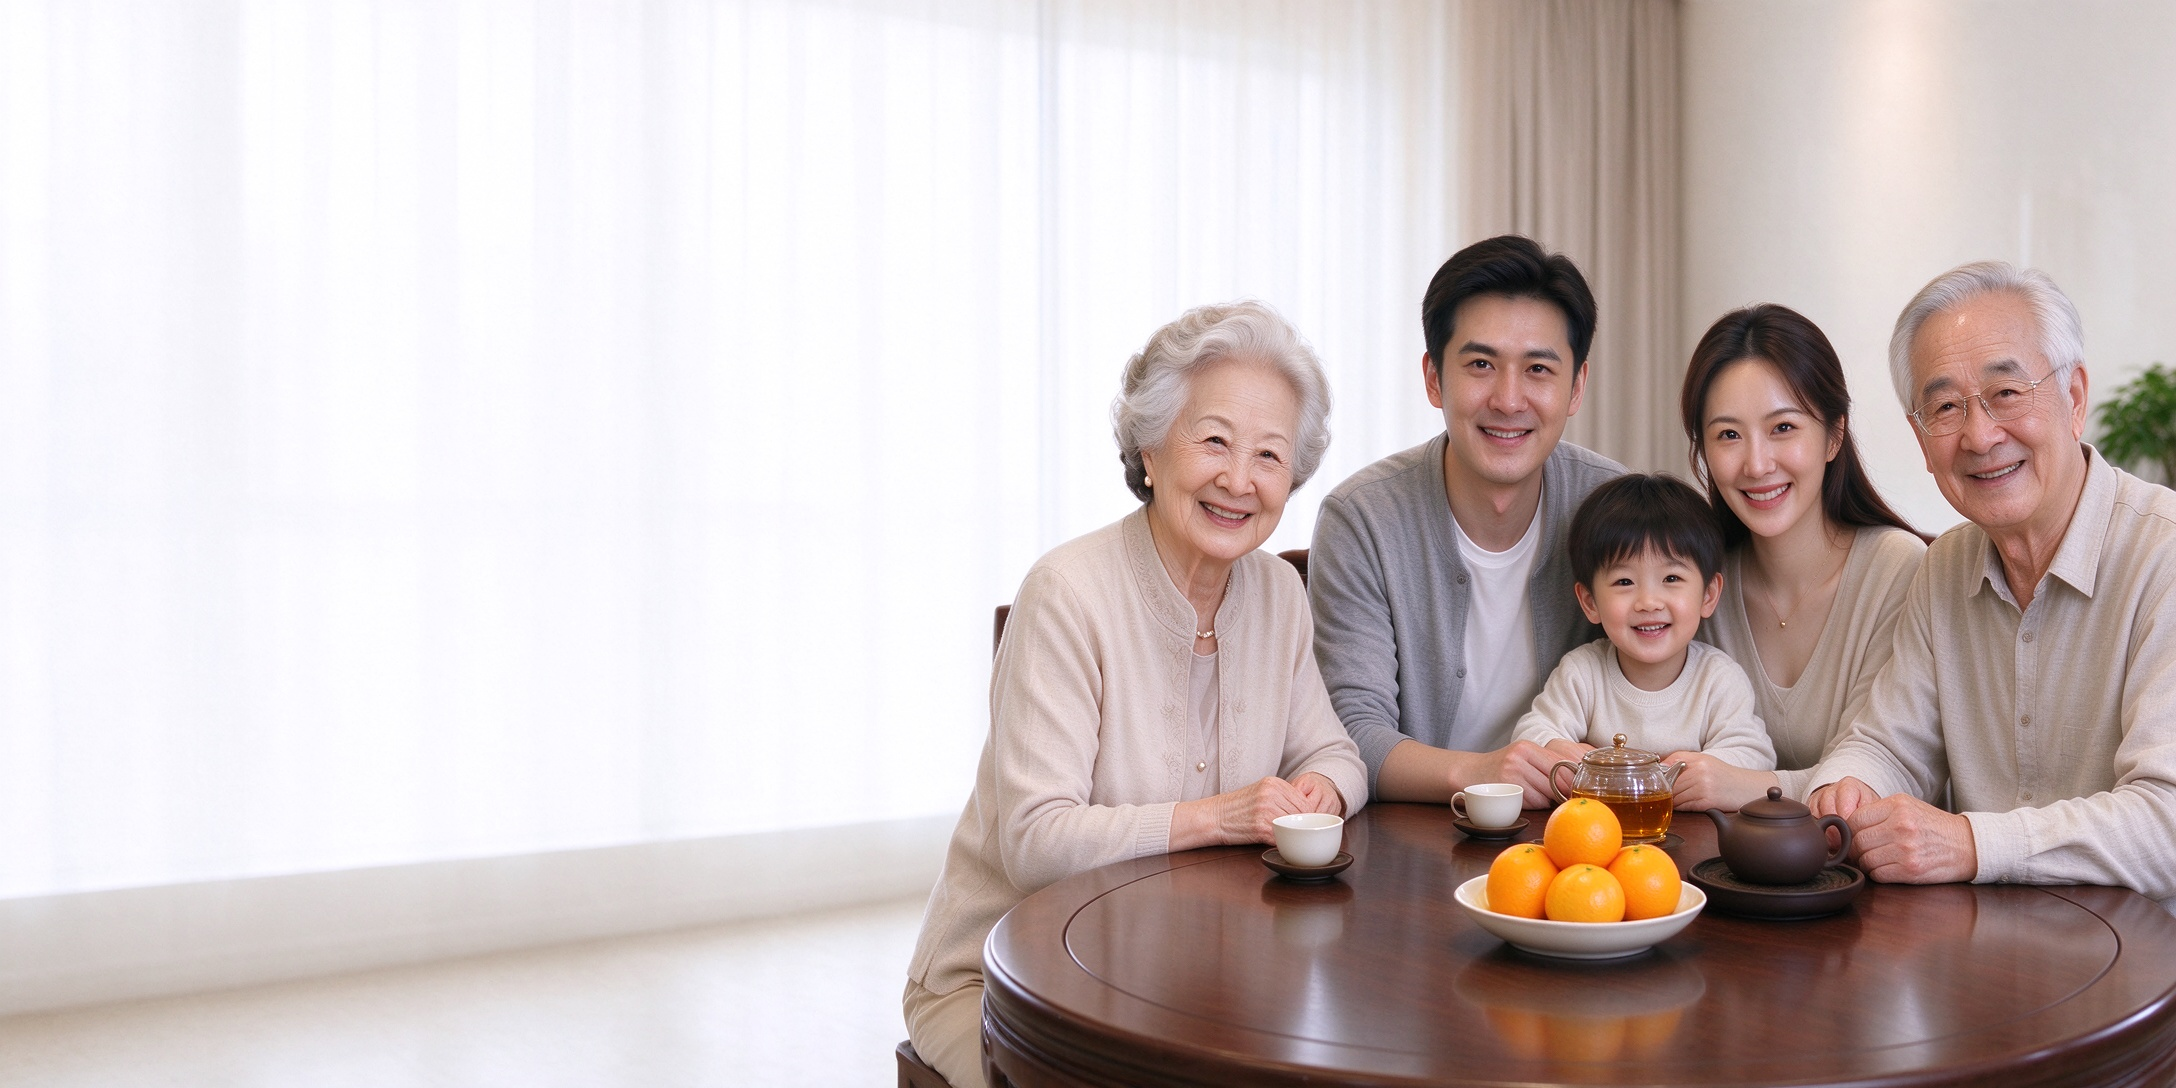
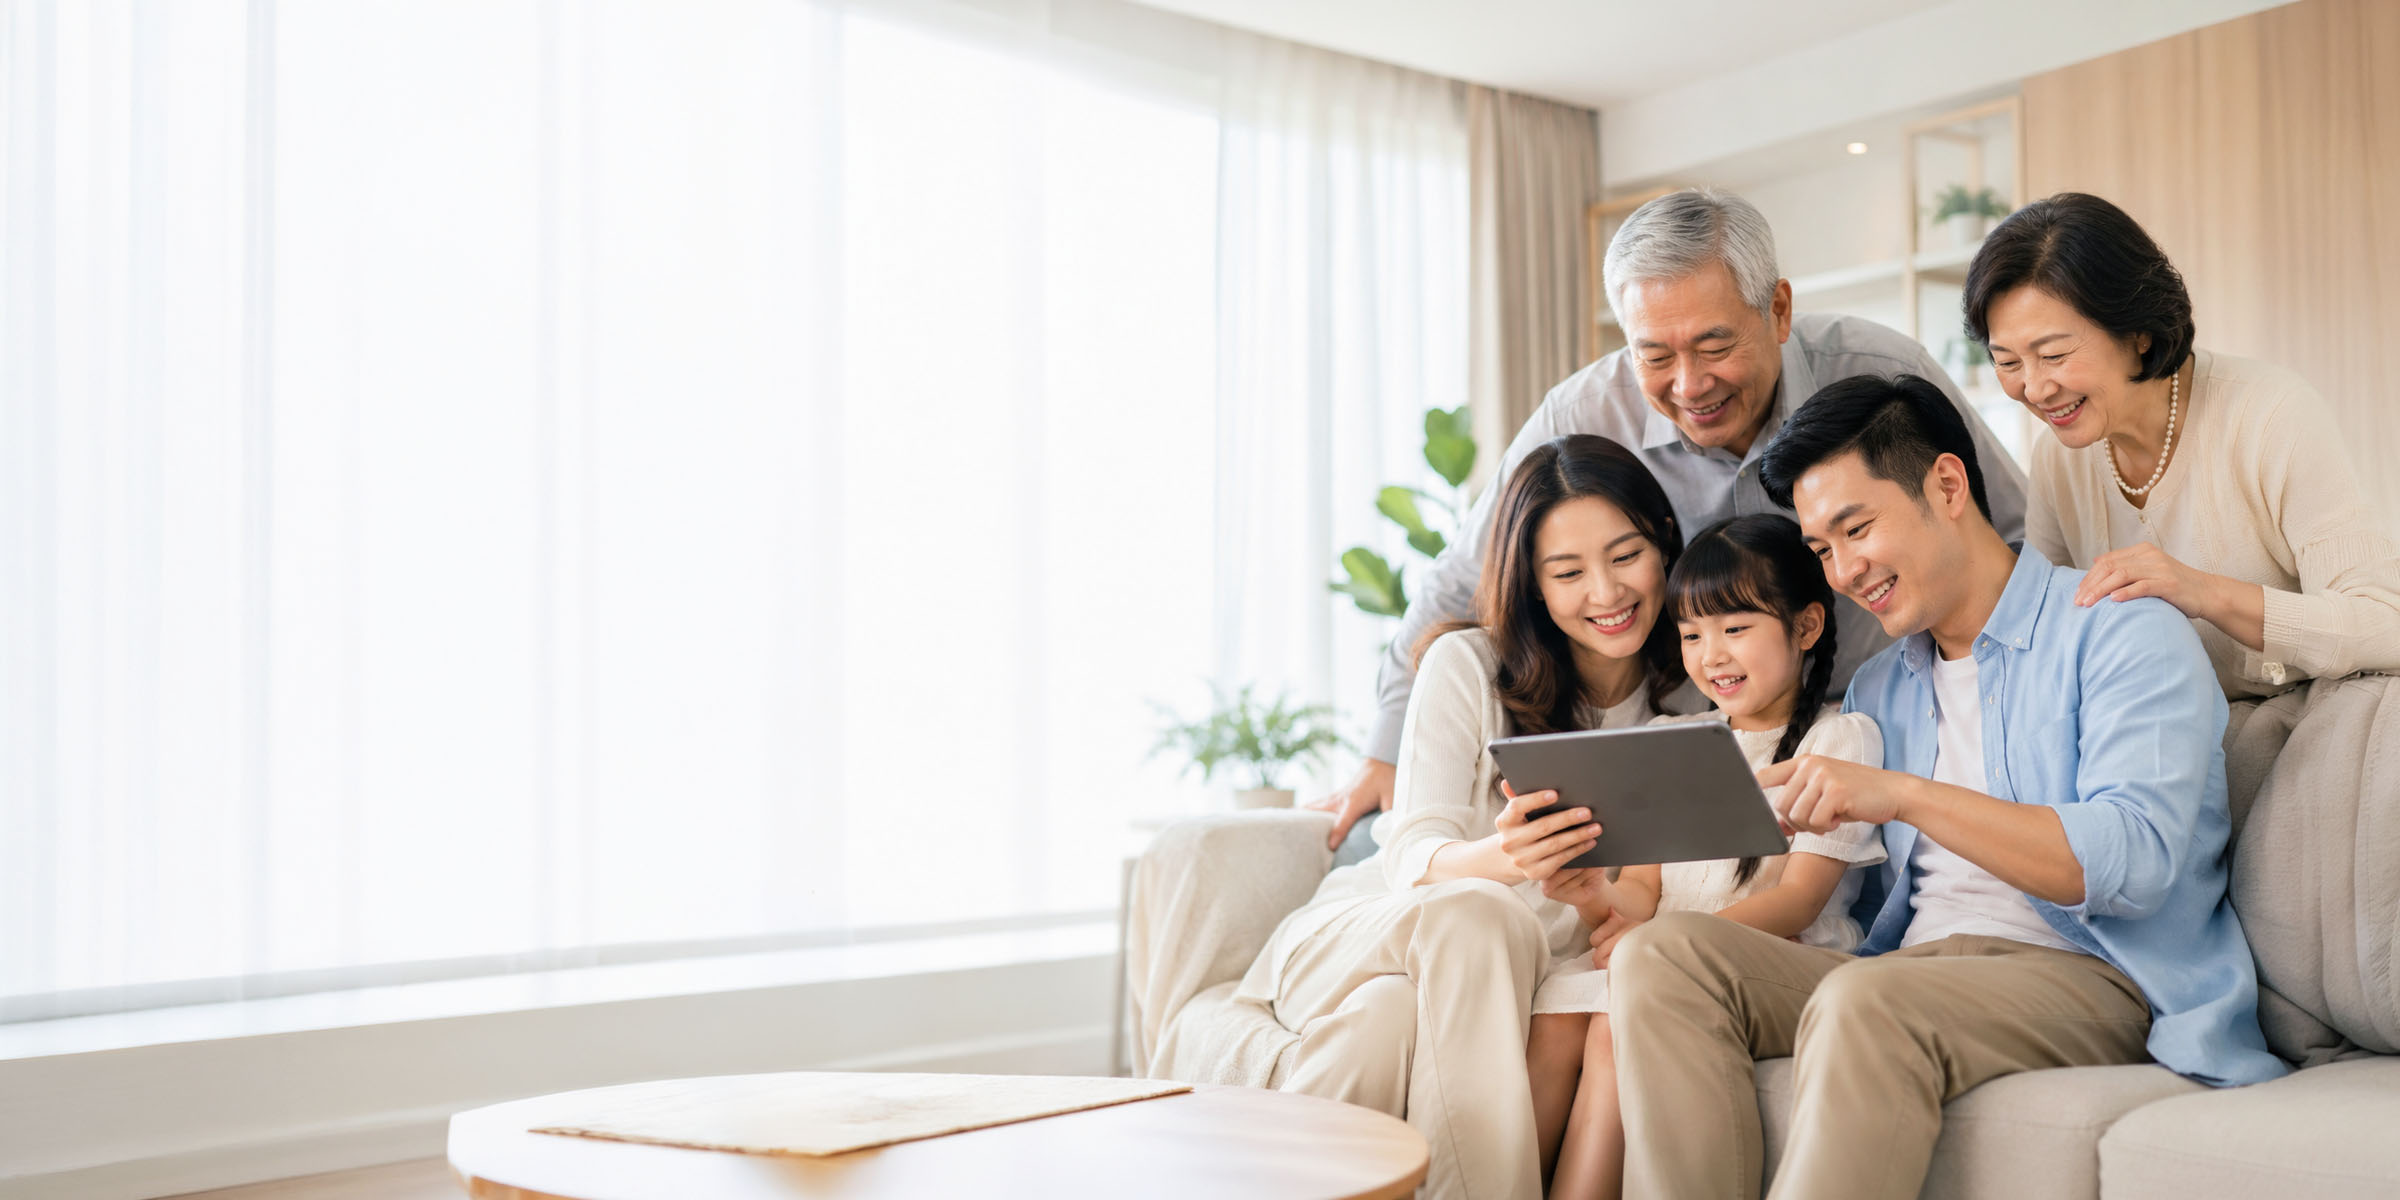
update

diff --git a/en/index.html b/en/index.html
@@ -1023,114 +1023,100 @@
         <div class="faq-section__inner">
           <div class="faq-section__heading">
             <h2 id="faqTitle">FAQs</h2>
-            <p>Everything you're wondering</p>
+            <p>Everything you need to know</p>
           </div>
 
           <div class="faq-section__list">
             <details class="faq-item" open>
               <summary>
-                <span>Why do I need to make a Will?</span>
+                <span>Why do I need to make a will?</span>
                 <span class="faq-item__icon" aria-hidden="true"></span>
               </summary>
               <div class="faq-item__answer">
                 <p>
-                  A Will allows you to decide how your assets should be distributed,
-                  appoint an executor, and name a guardian for your minor children.
+                  A will lets you decide how your legal assets will be distributed. You may also appoint an executor and nominate a guardian for your minor children.
                 </p>
                 <p>
-                  Without a valid Will, your estate will be distributed according to
-                  the applicable law, which may result in a longer and more complicated
-                  administration process for your loved ones.
+                  Without a valid will, your estate will be distributed under statutory succession rules of the Civil Code, which may not reflect your wishes. Your family may face more complicated and lengthy inheritance procedures.
                 </p>
               </div>
             </details>
 
             <details class="faq-item">
               <summary>
-                <span>Can I appoint a SmartWriter as my witness?</span>
+                <span>Can platform staff be witnesses for my will?</span>
                 <span class="faq-item__icon" aria-hidden="true"></span>
               </summary>
               <div class="faq-item__answer">
                 <p>
-                  Yes, you may request a SmartWriter to act as a witness, subject to
-                  availability.
+                  Under the Civil Code of China, heirs, legatees, and persons with an interest linked to heirs or legatees are disqualified to serve as will witnesses.
                 </p>
                 <p>
-                  A witness service fee of up to RM100 per witness may apply for each
-                  Will processed.
+                  You need two qualified witnesses with no relevant interest in your estate. The eligibility of witnesses directly affects the validity of your will.
                 </p>
               </div>
             </details>
 
             <details class="faq-item">
               <summary>
-                <span>Do I need a lawyer to prepare my Will?</span>
+                <span>Do I need a lawyer to prepare my will?</span>
                 <span class="faq-item__icon" aria-hidden="true"></span>
               </summary>
               <div class="faq-item__answer">
                 <p>
-                  No. Malaysian law does not require a Will to be prepared by a lawyer.
+                  Chinese law does not require a lawyer to draft your will.
                 </p>
                 <p>
-                  However, the Will must be in writing, properly signed and witnessed,
-                  and comply with the applicable legal requirements to be valid.
+                  However, the will must comply with statutory formalities, express your true intention and be legally valid. If you have complex assets, it is recommended to consult a legal professional.
                 </p>
               </div>
             </details>
 
             <details class="faq-item">
               <summary>
-                <span>Is a SmartWills online Will legally valid?</span>
+                <span>Are online will templates legally valid?</span>
                 <span class="faq-item__icon" aria-hidden="true"></span>
               </summary>
               <div class="faq-item__answer">
                 <p>
-                  Yes. A SmartWills online Will can become legally valid once it is
-                  correctly completed, printed, signed, and witnessed in accordance
-                  with Malaysian law.
-                </p>
-                <p>
-                  The SmartWills Will template was prepared by panel lawyers and
-                  reviewed by its in-house legal adviser.
+                  A template alone is not a valid will. To be enforceable, you must complete all required steps under the Civil Code for your chosen will type — such as handwritten will, printed will, witnessed will or audio-visual will, with proper signatures, witnesses and dating.
                 </p>
               </div>
             </details>
 
             <details class="faq-item">
               <summary>
-                <span>What assets can I include in my Will?</span>
+                <span>What assets can I include in my will?</span>
                 <span class="faq-item__icon" aria-hidden="true"></span>
               </summary>
               <div class="faq-item__answer">
                 <p>
-                  You may include assets such as property, bank savings, investments,
-                  vehicles, shares, jewellery and digital assets.
+                  You may dispose of your own lawful personal assets, such as real estate, bank deposits, wealth management products, stocks, vehicles, jewellery and digital assets.
                 </p>
                 <p>
-                  Your Will may also cover eligible future assets acquired after it is
-                  prepared.
+                  A will can only cover assets belonging to you personally. You cannot unilaterally dispose of the other party’s share in marital joint property.
                 </p>
               </div>
             </details>
 
             <details class="faq-item">
               <summary>
-                <span>What happens if I pass away without a Will?</span>
+                <span>What happens if I pass away without a will?</span>
                 <span class="faq-item__icon" aria-hidden="true"></span>
               </summary>
               <div class="faq-item__answer">
                 <p>
-                  Your estate will be distributed according to the applicable law
-                  instead of your personal wishes.
+                  Your estate will be distributed according to the statutory succession order set out in the Civil Code, which may not follow your personal wishes.
                 </p>
                 <p>
-                  Your family may also face a longer and more complicated process when
-                  appointing an administrator and managing the distribution of your
-                  estate.
+                  Your family will usually go through longer procedures for inheritance notarisation and asset transfer, and disputes among family members are more likely to arise.
                 </p>
               </div>
             </details>
           </div>
+        </div>
+    </section>
+
 
           <div class="faq-section__cta">
             <div>

diff --git a/index.html b/index.html
@@ -468,12 +468,12 @@
                 </div>
                 <div class="quick-actions__plans">
                   <article class="quick-actions__plan-card" role="button" tabindex="0" aria-pressed="false" data-quick-plan-card>
-                    <h3>SmartWills Basic</h3>
+                    <h3>智承基本遗嘱</h3>
                     <p class="quick-actions__price">RM 388</p>
                     <p>适合希望以简单整笔比例分配资产的马来西亚人。</p>
                   </article>
                   <article class="quick-actions__plan-card" role="button" tabindex="0" aria-pressed="false" data-quick-plan-card>
-                    <h3>SmartWills Advanced</h3>
+                    <h3>智承进阶遗嘱</h3>
                     <p class="quick-actions__price">RM 788</p>
                     <p>为马来西亚人提供详细遗嘱计划,他们需要细节化资产分配和更大的灵活性。</p>
                   </article>
@@ -990,94 +990,94 @@
           <div class="faq-section__list">
             <details class="faq-item" open>
               <summary>
-                <span>为什么我需要做遗嘱？</span>
+                <span>为什么我需要立遗嘱？</span>
                 <span class="faq-item__icon" aria-hidden="true"></span>
               </summary>
               <div class="faq-item__answer">
                 <p>
-                  遗嘱允许您决定您的资产应该如何分配,任命执行人,并为您的未成年子女命名监护人。
+                  遗嘱可以由您自主决定个人合法遗产的分配方式，还可以指定遗嘱执行人，也可以通过遗嘱为未成年子女选定监护人。
                 </p>
                 <p>
-                  如果没有有效遗嘱，你的遗产将依照适用法律分配，挚爱家人可能需要面对更漫长且复杂的遗产管理程序。
+                  如果没有合法有效的遗嘱，遗产将按照《民法典》法定继承规则分配，未必符合您本人意愿，家人后续办理继承手续也可能更繁琐。
                 </p>
               </div>
             </details>
 
             <details class="faq-item">
               <summary>
-                <span>我可以任命一个SmartWriter为我的见证人吗？</span>
+                <span>平台工作人员可以做我的遗嘱见证人吗？</span>
                 <span class="faq-item__icon" aria-hidden="true"></span>
               </summary>
               <div class="faq-item__answer">
                 <p>
-                  是的,您可以要求SmartWriter作为见证人,但可供使用。
+                  依据《民法典》，继承人、受遗赠人以及与继承人、受遗赠人有利害关系的人，不能担任遗嘱见证人。
                 </p>
                 <p>
-                  证人服务费每证人可高达100元。
+                  您需要选择两名符合资格、无利害关系的见证人；见证人资质是否合规会直接影响遗嘱效力。
                 </p>
               </div>
             </details>
 
             <details class="faq-item">
               <summary>
-                <span>我需要律师来准备我的遗嘱吗？</span>
+                <span>立遗嘱一定要找律师吗？</span>
                 <span class="faq-item__icon" aria-hidden="true"></span>
               </summary>
               <div class="faq-item__answer">
                 <p>
-                  马来西亚法律不要求律师准备遗嘱。
+                  我国法律没有强制要求必须由律师起草遗嘱。
                 </p>
                 <p>
-                  然而,遗嘱必须书面,正确签署和证明,并符合适用的法律要求才能有效。
+                  但遗嘱必须满足法定形式、是您真实意思表示、内容合法，才具备法律效力；如果财产情况复杂，建议咨询专业法律人士。
                 </p>
               </div>
             </details>
 
             <details class="faq-item">
               <summary>
-                <span>SmartWills网络遗嘱是否合法有效？</span>
+                <span>线上遗嘱模板是否具备法律效力？</span>
                 <span class="faq-item__icon" aria-hidden="true"></span>
               </summary>
               <div class="faq-item__answer">
                 <p>
-                  SmartWills 在线遗嘱在正确填写、打印、签署并依照马来西亚法律见证后，可具有法律效力。
-                </p>
-                <p>
-                  智能商遗嘱模板由专家组律师编制,由其内部法律顾问审查。
+                  模板本身不等于有效遗嘱。按模板填写后，需要严格对应《民法典》规定的遗嘱形式（自书、打印、代书、录音录像等）完成签署、见证、注明年月日等全部流程，才有可能合法有效。
                 </p>
               </div>
             </details>
 
             <details class="faq-item">
               <summary>
-                <span>我可以在遗嘱中包含哪些资产？</span>
+                <span>遗嘱里可以包含哪些资产？</span>
                 <span class="faq-item__icon" aria-hidden="true"></span>
               </summary>
               <div class="faq-item__answer">
                 <p>
-                  您可以包括财产,银行储蓄,投资,汽车,股票,珠宝和数字资产等资产。
+                  您可以处分自己名下的个人合法财产，例如房产、存款、理财、股票、车辆、珠宝、个人数字资产等。
                 </p>
                 <p>
-                  遗嘱还可以涵盖已准备后收购的资产。
+                  遗嘱仅能处置属于您个人的财产，夫妻共同财产中属于他人的部分不能擅自安排。
                 </p>
               </div>
             </details>
 
             <details class="faq-item">
               <summary>
-                <span>如果我没有遗嘱去世,会发生什么？</span>
+                <span>如果没有遗嘱就离世，会发生什么？</span>
                 <span class="faq-item__icon" aria-hidden="true"></span>
               </summary>
               <div class="faq-item__answer">
                 <p>
-                  你的遗嘱应按照适用的法律分配,而不是你个人愿望。
+                  遗产将按照《民法典》法定继承顺序分配，不一定按照您本人的意愿安排。
                 </p>
                 <p>
-                  在委任遗产管理人及处理遗产分配时，你的家人也可能面对更漫长且复杂的程序。
+                  家人办理继承公证、过户等手续时，流程通常更长，也更容易产生家庭争议。
                 </p>
               </div>
             </details>
           </div>
+        </div>
+    </section>
+
 
           <div class="faq-section__cta">
             <div>

diff --git a/Plan & Services.html b/Plan & Services.html
@@ -179,13 +179,13 @@
             </div>
             <div class="ps-pricing-shell">
               <article class="ps-price-card" data-plan-card="basic">
-                <h3>SmartWills Basic</h3><p class="ps-price-card__summary">一个简单的遗产遗产计划,以单次分配,以便简单而清晰的遗产规划。</p><p class="ps-price">RM 388</p><a class="ps-primary-button" href="https://app.mysmartwills.com/?item_id=2">立即选择方案</a>
+                <h3>智承基本遗嘱</h3><p class="ps-price-card__summary">一个简单的遗产遗产计划,以单次分配,以便简单而清晰的遗产规划。</p><p class="ps-price">RM 388</p><a class="ps-primary-button" href="https://app.mysmartwills.com/?item_id=2">立即选择方案</a>
                 <div class="ps-feature-grid"><div><strong>分配方式</strong><p>一次性分布</p></div><div><strong>执行人</strong><p>2个主要, 2个次要</p></div><div><strong>资产</strong><p>所有资产</p><small>* 增加3个项目资产的RM200</small></div><div><strong>监护人</strong><p>1个主要</p></div><div><strong>受益人</strong><p>主要和替代</p></div><div><strong>包括</strong><p>余额和未来资产</p></div></div>
                 <ul class="ps-package-features" aria-label="包装包装" hidden></ul>
                 <div class="ps-best"><strong>适合人群</strong><p>一个简单的遗产遗产计划,以单次分配,以便简单而清晰的遗产规划。</p></div>
               </article>
               <article class="ps-price-card ps-price-card--featured" data-plan-card="advanced">
-                <h3>SmartWills Advanced</h3><p class="ps-price-card__summary">一个更详细的遗嘱计划,以更大的控制和灵活性来详细分配资产。</p><p class="ps-price">RM 788</p><a class="ps-primary-button ps-primary-button--gradient" href="https://app.mysmartwills.com/?item_id=4">立即选择方案</a>
+                <h3>智承进阶遗嘱</h3><p class="ps-price-card__summary">一个更详细的遗嘱计划,以更大的控制和灵活性来详细分配资产。</p><p class="ps-price">RM 788</p><a class="ps-primary-button ps-primary-button--gradient" href="https://app.mysmartwills.com/?item_id=4">立即选择方案</a>
                 <div class="ps-feature-grid"><div><strong>分配方式</strong><p>项目分布</p></div><div><strong>执行人</strong><p>2个主要, 2个次要</p></div><div><strong>资产</strong><p>110 资产</p><small>* 增加无限资产的RM200</small></div><div><strong>监护人</strong><p>2个主要, 1个次要</p></div><div><strong>受益人</strong><p>主要和替代</p></div><div><strong>包括</strong><p>余额和未来资产</p></div></div>
                 <ul class="ps-package-features" aria-label="包装包装" hidden></ul>
                 <div class="ps-best"><strong>适合人群</strong><p>个人希望列出特定资产,并且对遗产规划有更大的细节和控制。</p></div>
